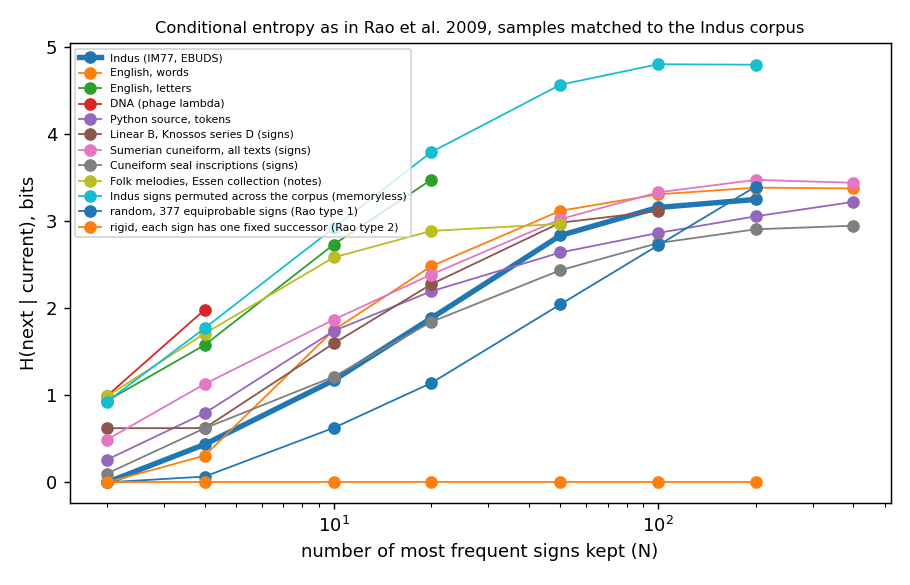
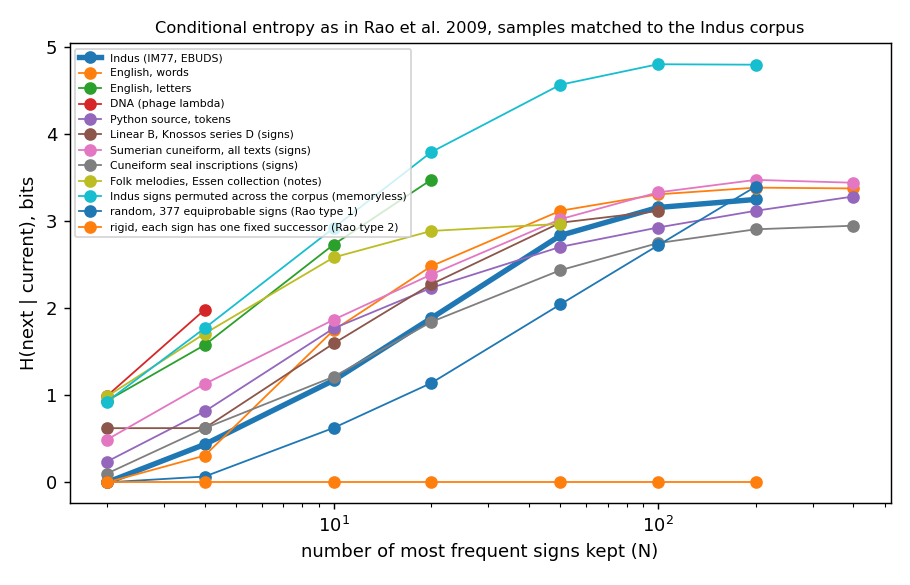
feat: milestone 2 Kneser-Ney trigram, NSB entropy and a held-out segment model
KneserNey generalised to any order (order 2 identical to before); the
trigram reaches 42.2% top-1 restoration and perplexity 26.73. NSB sign
entropy 6.74 bits. Recurring segments as units do not predict held-out
texts better than the sign bigram (4.91 vs 4.90 bits per sign).

diff --git a/sequence_analysis/run_milestone2.py b/sequence_analysis/run_milestone2.py
@@ -54,6 +54,7 @@ def language_models(texts, vocab):
     makers["add-1 n=2"] = AddK
     makers["add-0.01 n=2"] = lambda tr, v: AddK(tr, v, 0.01)
     makers["kneser-ney n=2"] = KneserNey
+    makers["kneser-ney n=3"] = lambda tr, v: KneserNey(tr, v, order=3)
     out = {}
     for name, make in makers.items():
         with_eos, without = ngram.cross_validate(make, texts, vocab)
@@ -439,6 +440,7 @@ def syntax(texts, n_resample, seed=0):
             "order_rule_heldout": {"texts_with_both": int(rule_obs[1]), "share_obeying": rule_obs[0] / rule_obs[1],
                                    "share_obeying_after_shuffle": rule_shuf[0] / rule_shuf[1],
                                    "share_obeying_ends_kept": rule_inner[0] / rule_inner[1]},
+            "segment_model_bits_per_sign": segment_model(texts, sorted({s for t in texts for s in t})),
             "segments": {"distinct_recurring": len(segs), "top": seg_pos,
                          "heldout_token_coverage": seg_cov[0] / seg_cov[1], "heldout_token_coverage_after_shuffle": seg_cov_shuf[0] / seg_cov_shuf[1]}}
 
@@ -464,6 +466,39 @@ def recurring_segments(texts):
         pieces.append(tuple(piece))
         found.update({p for p in pieces if len(p) >= 2})
     return Counter({p: n for p, n in found.items() if n >= SEGMENT_MIN_TEXTS})
+
+
+def tokenize(text, segs, longest):
+    """Greedy longest match: the text as a sequence of recurring segments and single signs (each a tuple)."""
+    out, i = [], 0
+    while i < len(text):
+        for k in range(min(longest, len(text) - i), 1, -1):
+            if text[i:i + k] in segs:
+                out.append(text[i:i + k])
+                i += k
+                break
+        else:
+            out.append((text[i],))
+            i += 1
+    return out
+
+
+def segment_model(texts, vocab):
+    """Is a text better described as a sequence of recurring segments than as a sequence of signs? Bits per sign
+    (end of text counted) on held-out folds: a segment unigram and bigram over segments learnt on the training fold,
+    against the sign bigram, all Witten-Bell backoff on the same folds."""
+    bits = {"sign bigram": 0.0, "segment unigram": 0.0, "segment bigram": 0.0}
+    events = 0
+    for train, test in ngram.folds(texts):
+        segs = set(recurring_segments(train))
+        longest = max(map(len, segs), default=1)
+        tok_train, tok_test = ([tuple(tokenize(t, segs, longest)) for t in x] for x in (train, test))
+        tok_vocab = sorted({(s,) for s in vocab} | segs)
+        bits["sign bigram"] -= ngram.log2_likelihood(WittenBell(train, vocab, 2, backoff=True), test)[0]
+        for n, name in ((1, "segment unigram"), (2, "segment bigram")):
+            bits[name] -= ngram.log2_likelihood(WittenBell(tok_train, tok_vocab, n, backoff=True), tok_test)[0]
+        events += sum(len(t) + 1 for t in test)
+    return {k: v / events for k, v in bits.items()}
 
 
 def coverage_by_segments(segs, texts):
@@ -580,6 +615,7 @@ def estimators(texts, phys, seed=0):
                      "mutual_information_permuted_corpus": stats.mutual_information(perm, h),
                      "conditional_entropy": stats.conditional_entropy(texts, h=h),
                      "direction_delta_S_primary": float(stats.asymmetry(*stats.terminals(phys), h=h)[1])}
+    out["NSB (sign entropy only)"] = {"unigram_entropy": stats.entropy_nsb(Counter(s for t in texts for s in t).values(), len(stats.SIGNS) - 1)}
     return out
 
 
@@ -889,6 +925,14 @@ def syntax_section(sx):
           f"against {100 * s['heldout_token_coverage_after_shuffle']:.1f}% of the same texts shuffled: much of the corpus is built from a stock of recurring sign groups.", "",
           "| Segment (reading order) | Texts containing it | Occurrences: initial | medial | final | whole text |", "|---|---|---|---|---|---|"]
     L += [f"| {k} | {v['texts']} | {v.get('initial', 0)} | {v.get('medial', 0)} | {v.get('final', 0)} | {v.get('whole text', 0)} |" for k, v in s["top"].items()]
+    sm = sx["segment_model_bits_per_sign"]
+    L += ["", f"**Do segments describe the texts better than signs?** On held-out folds, a model over recurring segments costs "
+          f"{sm['segment unigram']:.2f} bits per sign (segment unigram) and {sm['segment bigram']:.2f} (segment bigram), against "
+          f"{sm['sign bigram']:.2f} for the sign bigram (end of text counted, segments learnt on the training folds only). "
+          + ("Treating the recurring segments as units predicts held-out texts better than the sign bigram does."
+             if min(sm['segment unigram'], sm['segment bigram']) < sm['sign bigram'] else
+             "Treating the recurring segments as units does not predict held-out texts better than the sign bigram, so they are a "
+             "description of frequent sign groups, not a better model of the texts.")]
     L += ["", "Segments keep their own positions: the commonest opening pairs open texts and the pairs ending in 342 close them. These are distributional rules "
           "of the notation in reading order. They do not show that the segments are words, or that the classes are grammatical categories.", ""]
     return L
@@ -937,6 +981,9 @@ def extended_section(res):
           "permuted, which has no real dependence: whatever remains there is bias.", "",
           "| Estimator | Sign entropy | Mutual information | MI, permuted corpus | MI in excess of the permuted corpus | H(next given current) | Direction delta S (primary) |", "|---|---|---|---|---|---|---|"]
     for k, v in res["estimators"].items():
+        if "mutual_information" not in v:
+            L.append(f"| {k} | {v['unigram_entropy']:.3f} | | | | | |")
+            continue
         L.append(f"| {k} | {v['unigram_entropy']:.3f} | {v['mutual_information']:.3f} | {v['mutual_information_permuted_corpus']:.3f} | "
                  f"{v['mutual_information'] - v['mutual_information_permuted_corpus']:.3f} | {v['conditional_entropy']:.3f} | {v['direction_delta_S_primary']:+.3f} |")
     cs_, pi = res["estimators"]["Chao-Shen"], res["estimators"]["plug-in"]
@@ -1161,7 +1208,8 @@ if __name__ == "__main__":
             print(f"skipped the {name}: input missing, see data/README.md")
 
     res["restoration_by_model"] = {"witten-bell backoff n=3": restoration(texts, vocab, lambda tr, v: WittenBell(tr, v, 3, backoff=True)),
-                                   "kneser-ney n=2": restoration(texts, vocab, KneserNey)}
+                                   "kneser-ney n=2": restoration(texts, vocab, KneserNey),
+                                   "kneser-ney n=3": restoration(texts, vocab, lambda tr, v: KneserNey(tr, v, order=3))}
     res["syntax"] = syntax(texts, n_resample)
     res["breakdown"] = breakdown(lines, n_resample)
     res["estimators"] = estimators(texts, phys)

diff --git a/sequence_analysis/ngram.py b/sequence_analysis/ngram.py
@@ -90,27 +90,46 @@ class AddK:
 
 
 class KneserNey:
-    """Bigram interpolated Kneser-Ney with a fixed discount; continuation counts are Witten-Bell
-    smoothed toward uniform so unseen signs keep non-zero probability."""
-    order = 2
+    """Interpolated Kneser-Ney with a fixed discount, any order. Lower orders use continuation counts (how many
+    distinct signs precede an n-gram); the unigram continuation is Witten-Bell smoothed toward uniform so unseen
+    signs keep non-zero probability. order=2 is the bigram used throughout Milestone 2."""
 
-    def __init__(self, texts, vocab, discount=0.75):
-        self.d, self.counts = discount, defaultdict(Counter)
+    def __init__(self, texts, vocab, discount=0.75, order=2):
+        self.d, self.order = discount, order
+        self.counts = defaultdict(Counter)  # full available history (up to order-1 events) -> next event
+        left = defaultdict(set)  # (history, event) -> distinct preceding events, for continuation counts
         for t in texts:
             s = [BOS, *t, EOS]
-            for a, b in zip(s, s[1:]):
-                self.counts[a][b] += 1
-        cont = Counter(w for c in self.counts.values() for w in c)  # distinct left contexts per event
-        n, t, n_events = sum(cont.values()), len(cont), len(vocab) + 1
-        self.cont = lambda w: (cont[w] + t / n_events) / (n + t)
+            for i in range(1, len(s)):
+                for k in range(1, order):
+                    if i - k >= 0:
+                        h = tuple(s[i - k:i])
+                        if k == order - 1 or i - k == 0:  # highest order available at this position: raw counts
+                            self.counts[h][s[i]] += 1
+                        if i - k - 1 >= 0:
+                            left[(h, s[i])].add(s[i - k - 1])
+                if i >= 1:
+                    left[((), s[i])].add(s[i - 1])
+        self.cont = defaultdict(Counter)
+        for (h, w), us in left.items():
+            self.cont[h][w] = len(us)
+        uni, n_events = self.cont[()], len(vocab) + 1
+        n, t = sum(uni.values()), len(uni)
+        self.base = lambda w: (uni[w] + t / n_events) / (n + t)
         self.total = {h: sum(c.values()) for h, c in self.counts.items()}
+        self.ctotal = {h: sum(c.values()) for h, c in self.cont.items()}
 
     def prob(self, w, history=()):
-        c = self.counts.get(history[-1])
+        h = tuple(history)[-(self.order - 1):] if self.order > 1 else ()
+        return self._prob(w, h, True)
+
+    def _prob(self, w, h, top):
+        if not h:
+            return self.base(w)
+        c, total = (self.counts.get(h), self.total.get(h)) if top else (self.cont.get(h), self.ctotal.get(h))
         if not c:
-            return self.cont(w)
-        total = self.total[history[-1]]
-        return max(c[w] - self.d, 0) / total + self.d * len(c) / total * self.cont(w)
+            return self._prob(w, h[1:], False)
+        return max(c[w] - self.d, 0) / total + self.d * len(c) / total * self._prob(w, h[1:], False)
 
 
 class Positional:
@@ -255,7 +274,7 @@ def selfcheck():
     assert abs(2 ** (-ll / n) - 2.72) < 0.01
     for model in (m, WittenBell(train, vocab, 3), WittenBell(train, vocab, 2, backoff=True),
                   WittenBell(train, vocab, 3, backoff=True), AddK(train, vocab), KneserNey(train, vocab),
-                  Uniform(train, vocab), Positional(train, vocab)):
+                  KneserNey(train, vocab, order=3), Uniform(train, vocab), Positional(train, vocab)):
         for h in [(BOS,), ("a",), ("f",), ("a", "b"), (BOS, "c")]:
             total = sum(model.prob(w, h) for w in [*vocab, EOS])
             assert abs(total - 1) < 1e-9, (type(model).__name__, h, total)

diff --git a/sequence_analysis/stats.py b/sequence_analysis/stats.py
@@ -30,6 +30,22 @@ def entropy_chao_shen(counts):
     return float(-(p * np.log2(p) / (1 - (1 - p) ** n)).sum())
 
 
+def entropy_nsb(counts, k, grid=400):
+    """NSB entropy estimate in bits (Nemenman, Shafee & Bialek 2002) for an alphabet of k symbols: the Dirichlet
+    posterior-mean entropy averaged over the concentration beta, under the prior that is flat in expected entropy.
+    Integrated numerically on a log-spaced beta grid."""
+    from scipy.special import gammaln, polygamma, psi
+    n = np.array([c for c in counts if c > 0], float)
+    N, zeros = n.sum(), k - len(n)
+    beta = np.logspace(-4, 4, grid)
+    log_ev = (gammaln(k * beta) - gammaln(N + k * beta) + (gammaln(n[:, None] + beta) - gammaln(beta)).sum(0))
+    prior = k * polygamma(1, k * beta + 1) - polygamma(1, beta + 1)  # d xi / d beta
+    post_h = (psi(N + k * beta + 1) - ((n[:, None] + beta) * psi(n[:, None] + beta + 1)).sum(0) / (N + k * beta)
+              - zeros * beta * psi(beta + 1) / (N + k * beta))
+    w = np.exp(log_ev - log_ev.max()) * prior * beta  # times beta: integrating over log beta
+    return float((w * post_h).sum() / w.sum() / math.log(2))
+
+
 def js_divergence(p, q):
     """Jensen-Shannon divergence in bits between two aligned count vectors (0 = identical, 1 = disjoint)."""
     return float(jensenshannon(p, q, base=2) ** 2)
@@ -212,6 +228,10 @@ def selfcheck():
     assert abs(entropy_chao_shen([50] * 4) - 2) < 1e-6  # no singletons, large n: no correction needed
     sample = np.random.default_rng(0).integers(0, 400, 300)  # true entropy log2(400) = 8.64
     assert entropy(Counter(sample).values()) < 8 and abs(entropy_chao_shen(Counter(sample).values()) - math.log2(400)) < 0.2
+    big = np.random.default_rng(2).integers(0, 50, 20000)
+    assert abs(entropy_nsb(Counter(big).values(), 50) - math.log2(50)) < 0.01
+    small = Counter(sample).values()  # 300 draws from 400 equally likely symbols
+    assert entropy(small) < entropy_nsb(small, 400) <= math.log2(400) + 0.05
     assert js_divergence([2, 1], [4, 2]) < 1e-12 and abs(js_divergence([1, 0], [0, 1]) - 1) < 1e-12
     assert abs(conditional_entropy([(1, 2), (1, 3)]) - 1) < 1e-12 and conditional_entropy([(1, 2), (1, 3)], top_n=2) == 0
     # a toy right-to-left script: every text ends (physical left) in sign 9, starts anywhere

diff --git a/sequence_analysis/test_sequence_analysis.py b/sequence_analysis/test_sequence_analysis.py
@@ -66,3 +66,10 @@ def test_wells_reading_order_ends_in_jar_sign():
     texts, head = corpus.load_wells()
     assert sum(t[-1] == 740 for t in texts) > 10 * sum(t[0] == 740 for t in texts)
     assert not set(head) & set(head.values())  # variant groups are one level deep
+
+
+def test_segment_tokenizer_round_trips():
+    segs = {(1, 2), (3, 4, 5)}
+    for t in [(1, 2, 3, 4, 5, 6), (6, 1, 2), (3, 4), (1,)]:
+        assert tuple(s for tok in m2.tokenize(t, segs, 3) for s in tok) == t
+    assert m2.tokenize((1, 2, 3, 4, 5, 6), segs, 3) == [(1, 2), (3, 4, 5), (6,)]

diff --git a/reports/milestone_2/milestone_2_report.md b/reports/milestone_2/milestone_2_report.md
@@ -61,6 +61,7 @@ Notes on comparability:
 | add-1 n=2 | 6.149, 0.051 | 70.94 | 106.21 |
 | add-0.01 n=2 | 5.302, 0.124 | 39.44 | 68.60 |
 | kneser-ney n=2 | 4.827, 0.087 | 28.38 | 49.09 |
+| kneser-ney n=3 | 4.740, 0.089 | 26.73 | 46.28 |
 
 The positional model, which knows only how far into the text a sign is, reaches 5.970 bits per event; the bigram model reaches 4.899. This baseline counts position from the start only; a baseline that also knows the distance to the end is under Robustness checks.
 The vocabulary is fixed at the 377 signs of the filtered corpus plus end-of-text; every model gives unseen signs non-zero probability.
@@ -134,8 +135,9 @@ With one sign removed and predicted from both neighbours by the bigram model (70
 | Model | Top-1 | Top-5 | Inside the 90% set | Same, strict | Mean size of the 90% set |
 |---|---|---|---|---|---|
 | witten-bell backoff n=2 | 38.0% | 62.4% | 86.1% | 79.5% | 44 |
-| witten-bell backoff n=3 | 40.1% | 63.0% | 82.5% | 69.9% | 37 |
+| witten-bell backoff n=3 | 40.2% | 63.0% | 82.5% | 69.9% | 37 |
 | kneser-ney n=2 | 38.7% | 63.2% | 86.7% | 77.0% | 55 |
+| kneser-ney n=3 | 42.2% | 64.5% | 85.5% | 68.0% | 53 |
 
 Each model scores a candidate by the probability of the whole text with the candidate in place, so the trigram also uses the sign two places away. It gains a few points of top-1 accuracy; the 90%-set figures are not comparable across models because the set sizes differ.
 
@@ -187,6 +189,8 @@ Class-to-class transitions against shuffles of the medial signs, first and last 
 | 222 254 | 15 | 0 | 2 | 12 | 1 |
 | 216 254 | 19 | 1 | 2 | 15 | 1 |
 
+**Do segments describe the texts better than signs?** On held-out folds, a model over recurring segments costs 5.47 bits per sign (segment unigram) and 4.91 (segment bigram), against 4.90 for the sign bigram (end of text counted, segments learnt on the training folds only). Treating the recurring segments as units does not predict held-out texts better than the sign bigram, so they are a description of frequent sign groups, not a better model of the texts.
+
 Segments keep their own positions: the commonest opening pairs open texts and the pairs ending in 342 close them. These are distributional rules of the notation in reading order. They do not show that the segments are words, or that the classes are grammatical categories.
 
 ## Robustness checks
@@ -201,7 +205,7 @@ Each reference system is cut into samples with exactly the Indus text-length dis
 | English, words | 1555 | 8.67 | 3.23 | 0.037 (0.001) | 0.232 (0.020) |
 | English, letters | 26 | 4.18 | 3.53 | 0.123 (0.003) | 0.120 (0.004) |
 | DNA (phage lambda) | 4 | 2.00 | 1.98 | 0.006 (0.001) | n/a (fewer than 20 signs) |
-| Python source, tokens | 953 | 6.52 | 3.39 | 0.105 (0.003) | 0.327 (0.013) |
+| Python source, tokens | 991 | 6.61 | 3.45 | 0.099 (0.005) | 0.326 (0.008) |
 | Linear B, Knossos series D (signs) | 108 | 5.55 | 3.11 | 0.269 (0.005) | 0.358 (0.007) |
 | Sumerian cuneiform, all texts (signs) | 685 | 7.94 | 3.38 | 0.085 (0.003) | 0.228 (0.016) |
 | Cuneiform seal inscriptions (signs) | 439 | 6.66 | 2.95 | 0.202 (0.003) | 0.417 (0.011) |
@@ -320,6 +324,7 @@ The entropy-based statistics under three estimators. The last column but one is 
 | plug-in | 6.681 | 3.115 | 1.947 | 1.168 | 3.221 | -0.418 |
 | Miller-Madow | 6.720 | 2.911 | 1.565 | 1.346 | 3.465 | -0.419 |
 | Chao-Shen | 6.753 | 2.861 | 1.251 | 1.610 | 3.545 | -0.405 |
+| NSB (sign entropy only) | 6.738 | | | | | |
 
 Chao-Shen cuts the bias on the permuted corpus from 1.95 to 1.25 bits but does not remove it, which is why every dependence claim in this report is made against shuffles rather than against zero. The direction statistic barely moves across estimators.
 
@@ -365,4 +370,4 @@ Re-segmenting up to a fifth of the sign list moves the dependence index by at mo
 
 ### Provenance
 
-Python 3.10.12; numpy 2.2.6, scipy 1.15.3, pandas 2.3.3, matplotlib 3.10.9; code at commit da2e037. Input checksums (SHA-256) and a checksum of the Python-token reference stream (which depends on the local standard library) are in `results.json` under `provenance`. Every random step uses a fixed seed.
+Python 3.10.21; numpy 2.2.6, scipy 1.15.3, pandas 2.3.3, matplotlib 3.10.9; code at commit 79373ae plus uncommitted changes. Input checksums (SHA-256) and a checksum of the Python-token reference stream (which depends on the local standard library) are in `results.json` under `provenance`. Every random step uses a fixed seed.
